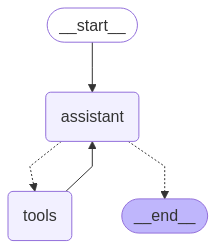
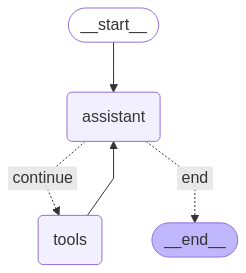
**Migrasi menjadi asinkronus**. Memperbarui logika asinkron pada kelas AgentClient dan Tools
- Mengubah metode pemanggilan di kelas AgentClient dan Tools menjadi asinkron untuk meningkatkan efisiensi.
- Menambahkan logika untuk menentukan kelanjutan proses berdasarkan panggilan alat terakhir.
- Memperbaiki pengembalian respons di kelas AgentClient untuk mengembalikan daftar pesan.
- Memperbarui pengiriman pesan di kelas Tools dengan menggunakan metode asinkron untuk konteks guild dan channel.

diff --git a/src/agent/tools.py b/src/agent/tools.py
@@ -5,9 +5,7 @@ from utils.supabase import supabase_client
 from typing_extensions import Annotated
 from discord.ext.commands import Bot
 import discord
-from langchain_core.tools import tool, StructuredTool
-import asyncio
-
+from langchain_core.tools import StructuredTool
 
 # from app import BOT
 logger = Logger(__file__) 
@@ -17,7 +15,7 @@ class Tools:
         self.bot = bot
     
     def getTools(self):
-        def _add(a:int, b:int):
+        async def _add(a:int, b:int):
             """
             Menambahkan dua angka secara asinkron.
 
@@ -30,7 +28,7 @@ class Tools:
             """
             return a + b
 
-        def _access_task_db(query:str, state: Annotated[dict, InjectedState]) -> str:
+        async def _access_task_db(query:str, state: Annotated[dict, InjectedState]) -> str:
             """
             Use this tool to query task database ONLY when you need to read or update task records. 
             You can do all function following this table detail:
@@ -60,23 +58,13 @@ class Tools:
             
             return_msg = ""
             try:
-                try:
-                    loop = asyncio.get_event_loop()
-                    guild_context = loop.run_until_complete(self.bot.fetch_guild(state["guild_id"]))
-                    if not guild_context: raise Exception("Guild not found!")
-                    
-                    channel_context = guild_context.get_channel(state["thread_id"])
-                    if not channel_context: raise Exception("Channel not found!")
-                    
-                    loop.run_until_complete(channel_context.send(f"```Executing task database query: {query}```"))
-                except: 
-                    guild_context = asyncio.run(self.bot.fetch_guild(state["guild_id"]))
-                    if not guild_context: raise Exception("Guild not found!")
-                    
-                    channel_context = guild_context.get_channel(state["thread_id"])
-                    if not channel_context: raise Exception("Channel not found!")
-                    
-                    asyncio.run(channel_context.send(f"```Executing task database query: {query}```"))
+                guild_context = await self.bot.fetch_guild(state["guild_id"])
+                if not guild_context: raise Exception("Guild not found!")
+                
+                channel_context = await guild_context.fetch_channel(state["thread_id"])
+                if not channel_context: raise Exception("Channel not found!")
+                
+                await channel_context.send(f"```Executing task database query: {query}```")
                 
                 response = supabase_client.rpc("execute_raw_query", {"query": query}).execute()
                 logger.info("Task database query executed successfully")
@@ -89,7 +77,7 @@ class Tools:
                 return_msg = f"Failed to execute query with error: {e}"
                 return return_msg
         
-        def _access_issue_db(query:str, state: Annotated[dict, InjectedState]) -> str:
+        async def _access_issue_db(query:str, state: Annotated[dict, InjectedState]) -> str:
             """
             Execute posgresql query in supabase to issues Task. You can do all function following this table detail:
             public.issues (
@@ -121,23 +109,13 @@ class Tools:
             logger.info(f"bot {self.bot}")
             return_msg = ""
             try:
-                try:
-                    loop = asyncio.get_event_loop()
-                    guild_context = loop.run_until_complete(self.bot.fetch_guild(state["guild_id"]))
-                    if not guild_context: raise Exception("Guild not found!")
-                    
-                    channel_context = guild_context.get_channel(state["thread_id"])
-                    if not channel_context: raise Exception("Channel not found!")
-                    
-                    loop.run_until_complete(channel_context.send(f"```Executing issue database query: {query}```"))
-                except: 
-                    guild_context = asyncio.run(self.bot.fetch_guild(state["guild_id"]))
-                    if not guild_context: raise Exception("Guild not found!")
-                    
-                    channel_context = guild_context.get_channel(state["thread_id"])
-                    if not channel_context: raise Exception("Channel not found!")
-                    
-                    asyncio.run(channel_context.send(f"```Executing issue database query: {query}```"))
+                guild_context = await self.bot.fetch_guild(state["guild_id"])
+                if not guild_context: raise Exception("Guild not found!")
+                
+                channel_context = await guild_context.fetch_channel(state["thread_id"])
+                if not channel_context: raise Exception("Channel not found!")
+                
+                await channel_context.send(f"```Executing issue database query: {query}```")
 
                 response = supabase_client.rpc("execute_raw_query", {"query": query}).execute()
                 logger.info("Issue database query executed successfully")
@@ -150,7 +128,7 @@ class Tools:
                 return_msg = f"Failed to execute query with error: {e}"
                 return return_msg
         
-        def _create_issue_channel(channel_name:str, message:str, state: Annotated[dict, InjectedState]):
+        async def _create_issue_channel(channel_name:str, message:str, state: Annotated[dict, InjectedState]):
             """
             Use this tool to create a new issue channel ONLY once after a new issue report is added. 
             Do not create duplicate channels.
@@ -166,65 +144,38 @@ class Tools:
             CATEGORY_NAME = "Issue"
 
             try:
-                try:
-                    loop = asyncio.get_event_loop()
-                    guild_context = loop.run_until_complete(self.bot.fetch_guild(state["guild_id"]))
-                    if not guild_context: raise Exception("Guild not found!")
-                    channel_context = guild_context.get_channel(state["thread_id"])
-                    if not channel_context: raise Exception("Channel not found!")
-                    loop.run_until_complete(channel_context.send(f"```Creating issue channel: {channel_name}```"))
+                guild_context = await self.bot.fetch_guild(state["guild_id"])
+                if not guild_context: raise Exception("Guild not found!")
+
+                channel_context = await guild_context.fetch_channel(state["thread_id"])
+                if not channel_context: raise Exception("Channel not found!")
                 
-                except: 
-                    guild_context = asyncio.run(self.bot.fetch_guild(state["guild_id"]))
-                    if not guild_context: raise Exception("Guild not found!")
-                    channel_context = guild_context.get_channel(state["thread_id"])
-                    if not channel_context: raise Exception("Channel not found!")
-                    asyncio.run(channel_context.send(f"```Creating issue channel: {channel_name}```"))
+                await channel_context.send(f"```Creating issue channel: {channel_name}```")
 
                 category = discord.utils.get(guild_context.categories, name=CATEGORY_NAME)
-                try:
-                    loop = asyncio.get_event_loop()
-                    if not category:
-                        logger.info(f"Creating new category: {CATEGORY_NAME}")
-                        category = loop.run_until_complete(
-                                guild_context.create_category(
-                                    name=CATEGORY_NAME,
-                                    position=0
-                                )
+                
+                if not category:
+                    logger.info(f"Creating new category: {CATEGORY_NAME}")
+                    category = await guild_context.create_category(
+                                name=CATEGORY_NAME,
+                                position=0
                             )
-                    logger.info(f"Creating text channel: {channel_name}")
-                    channel = loop.run_until_complete(
-                            guild_context.create_text_channel(
-                            name=channel_name,
-                            category=category,
-                        )
+                        
+                logger.info(f"Creating text channel: {channel_name}")
+                channel = await guild_context.create_text_channel(
+                        name=channel_name,
+                        category=category,
                     )
-                    loop.run_until_complete(channel.send(message)) 
-                except:
-                    if not category:
-                        logger.info(f"Creating new category: {CATEGORY_NAME}")
-                        category = asyncio.run(
-                                guild_context.create_category(
-                                    name=CATEGORY_NAME,
-                                    position=0
-                                )
-                            ) 
-                    logger.info(f"Creating text channel: {channel_name}")
-                    channel = asyncio.run(
-                            guild_context.create_text_channel(
-                            name=channel_name,
-                            category=category,
-                        )
-                    )
-                    asyncio.run(channel.send(message))
- 
+                
+                await channel.send(message) 
+              
                 logger.info(f"Successfully created issue channel: {channel_name}")
                 return f"Success create channel for ticket {channel_name}"
             except Exception as e:
                 logger.error(f"Failed to create issue channel: {str(e)}")
                 return f"Somethink went wrong: {e}"
             
-        def _web_search(query: str) -> str:
+        async def _web_search(query: str) -> str:
             """
             Use this tool to search for external information ONLY when internal knowledge is insufficient. 
             Avoid repeated searches unless necessary.
@@ -242,11 +193,11 @@ class Tools:
                 raise
         
         tools = [
-            StructuredTool.from_function(func=_add), 
-            StructuredTool.from_function(func=_access_task_db), 
-            StructuredTool.from_function(func=_access_issue_db), 
-            StructuredTool.from_function(func=_create_issue_channel), 
-            StructuredTool.from_function(func=_web_search)
+            StructuredTool.from_function(coroutine=_add), 
+            StructuredTool.from_function(coroutine=_access_task_db), 
+            StructuredTool.from_function(coroutine=_access_issue_db), 
+            StructuredTool.from_function(coroutine=_create_issue_channel), 
+            StructuredTool.from_function(coroutine=_web_search)
         ]
         logger.info(f"Init dynamic tools: {str([fx.name for fx in tools])}")
         return tools

diff --git a/src/agent/agent_client.py b/src/agent/agent_client.py
@@ -1,6 +1,6 @@
 from langchain_groq import ChatGroq
 from langgraph.checkpoint.memory import MemorySaver
-from langgraph.graph import START, StateGraph, add_messages
+from langgraph.graph import START, StateGraph, add_messages, END
 from langchain_core.messages import HumanMessage, SystemMessage, AnyMessage
 from langgraph.prebuilt import tools_condition, ToolNode
 from langchain.tools import BaseTool
@@ -9,10 +9,9 @@ from pydantic import BaseModel
 from typing import TypedDict, Annotated, List
 from config.config import GROQ_API_KEY, MODEL_NAME, TEMPERATURE, MAX_TOKENS
 from utils.logger import Logger
-from agent.data_retriever import DataRetriever
 from utils.supabase import supabase_client
-from typing import Callable
 from agent.tools import Tools
+from typing import Literal
 
 
 class StateSchema(TypedDict):
@@ -53,7 +52,15 @@ class AgentClient:
         
         # Setup edge
         graph.add_edge(START, "assistant")
-        graph.add_conditional_edges("assistant",tools_condition)
+        # graph.add_conditional_edges("assistant",tools_condition)
+        graph.add_conditional_edges(
+            "assistant", 
+            self.__should_continue, 
+            {
+                "continue": "tools",
+                "end": END,
+            },
+        )
         graph.add_edge("tools", "assistant")
 
         # Compile graph
@@ -67,11 +74,21 @@ class AgentClient:
         
         return graph
 
-    def __call_llm_node(self, state: StateSchema):
+    def __should_continue(self, state: StateSchema) -> Literal["end", "continue"]:
+        messages = state["messages"]
+        last_message = messages[-1]
+        # If there is no tool call, then we finish
+        if not last_message.tool_calls:
+            return "end"
+        # Otherwise if there is, we continue
+        else:
+            return "continue"
+        
+    async def __call_llm_node(self, state: StateSchema):
         """Internal function to call the model"""
         self.logger.info("Calling LLM node")
         
-        response = self.llm_with_tool.invoke(state["messages"])
+        response = await self.llm_with_tool.ainvoke(state["messages"])
         log_msg = {
             "thread_id": state["thread_id"],
             "user_id": state["user_id"],
@@ -87,7 +104,7 @@ class AgentClient:
         
         self.llm_logger.debug(log_msg)
         self.llm_logger.debug(response)
-        return {"messages": response}
+        return {"messages": [response]}
     
     def __execute_db_query_node(self, state: StateSchema):
         self.logger.info("Executing database query node")
@@ -117,7 +134,7 @@ class AgentClient:
             self.logger.error(f"Error: {e}")
         return {"messages": f"{msg} \n\n {return_msg}"}
 
-    def invoke(self, guild_id:str, thread_id: str, user_id: str, query: str, system_message = None) -> str:
+    async def invoke(self, guild_id:str, thread_id: str, user_id: str, query: str, system_message = None) -> str:
         try:
             self.logger.info(f"Invoking agent with query: {query}")            
 
@@ -139,7 +156,7 @@ class AgentClient:
             self.logger.info(f"init_state: {initial_state}")
             
             config = {"configurable": {"thread_id": thread_id}}
-            result = self.graph.invoke(initial_state, config)
+            result = await self.graph.ainvoke(initial_state, config)
             
             for m in result['messages'][-1:]:
                 self.logger.info(f"Agent response: {m.content}")

diff --git a/src/services/discord_bot.py b/src/services/discord_bot.py
@@ -17,7 +17,7 @@ class DiscordBot(Bot):
             """Handle message from user"""
             try:
                 # Process with AI agent
-                response = self.ai_agent.invoke(
+                response = await self.ai_agent.invoke(
                     guild_id=str(ctx.guild.id),
                     thread_id=str(ctx.channel.id),
                     user_id=str(ctx.author.name),
